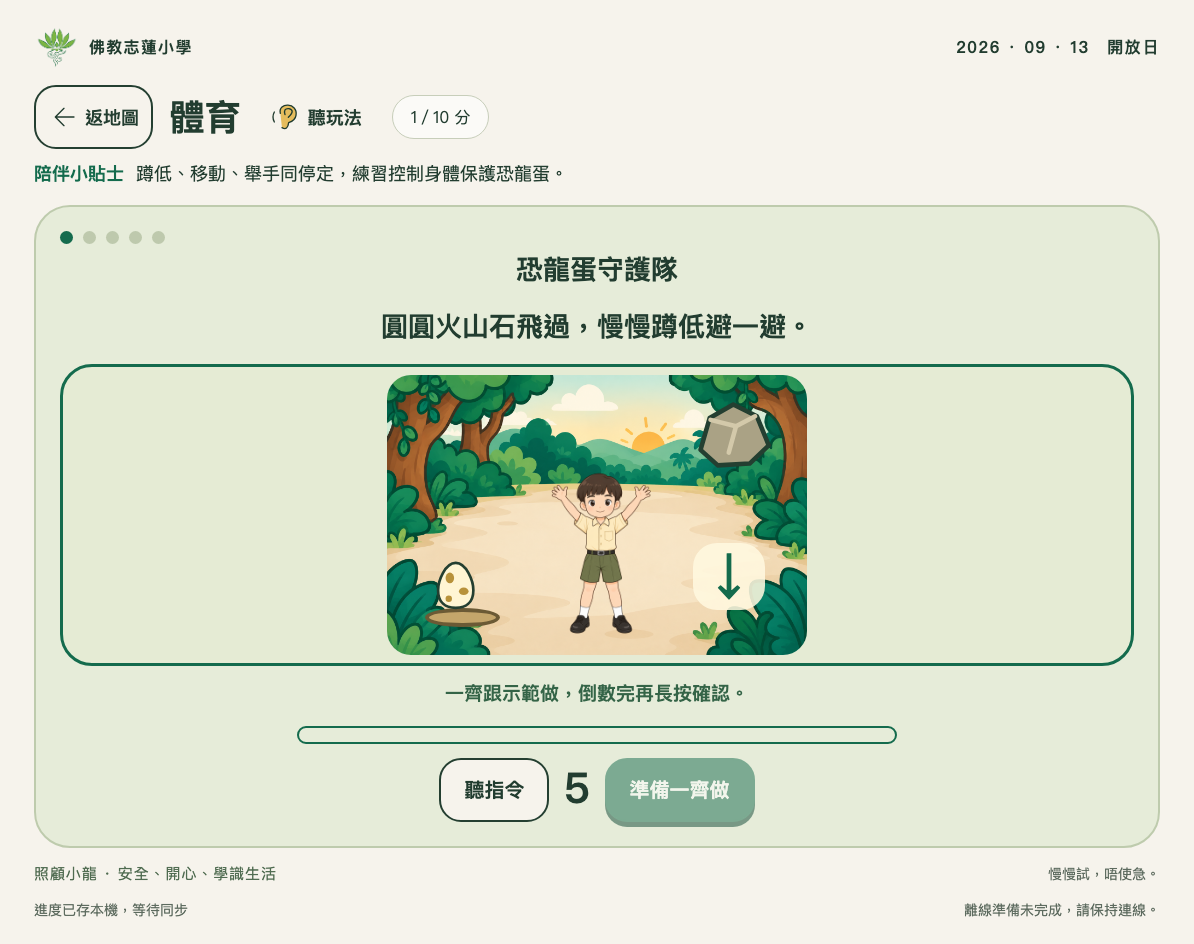
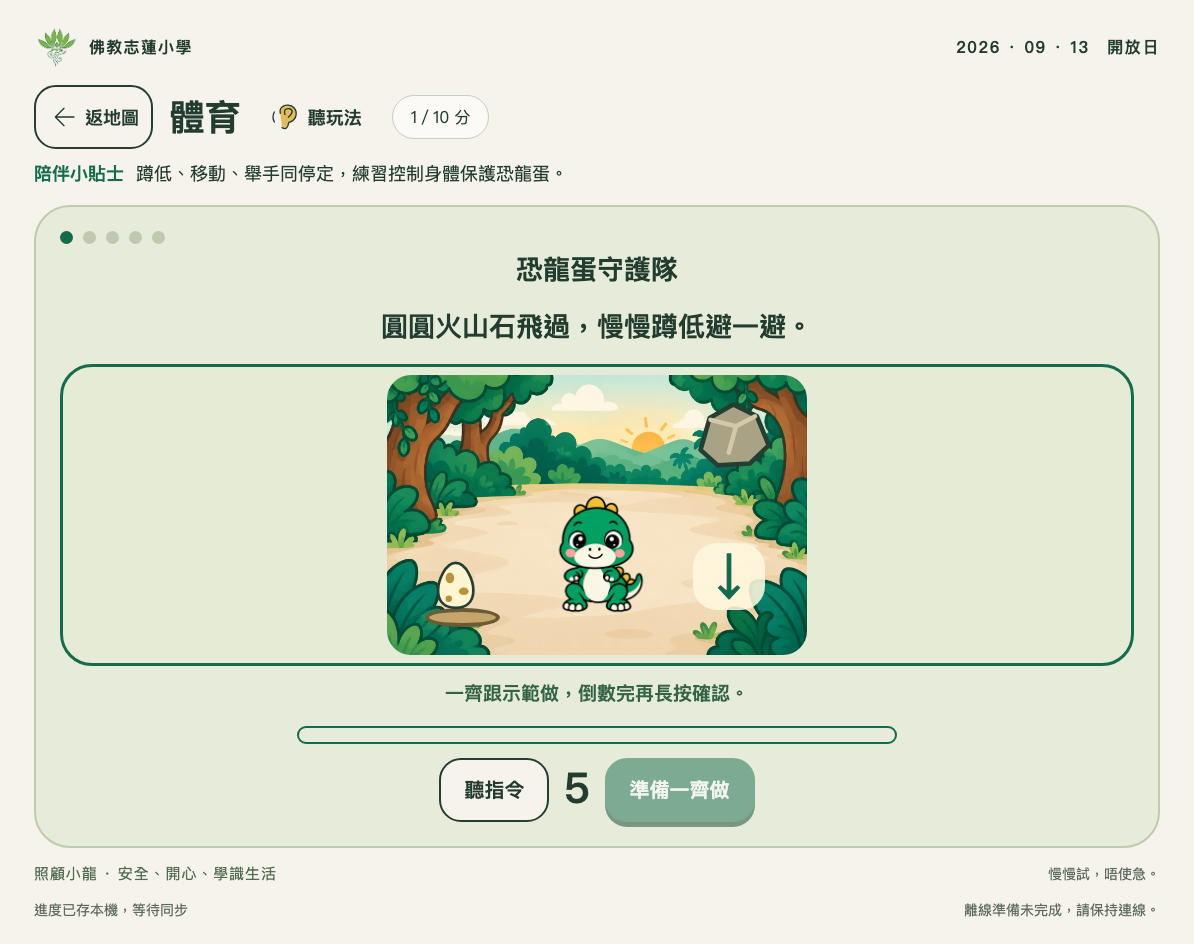
Complete hatch artwork and dinosaur-led PE demonstration scenes

Changed region(s): [[0.4648, 0.4915, 0.5578, 0.6758]]

diff --git a/sw.js b/sw.js
@@ -1,7 +1,7 @@
 // Generated precache manifest. Rebuild whenever local assets change.
-const CACHE='dino-island-1cceef660ec5';
+const CACHE='dino-island-a9feb54aa8e3';
 const BASE=new URL('./',self.location.href);
-const ASSETS=["board/board.css","board/board.js","board/img/board-skin.png","board/index.html","hub/app.js","hub/audio/en/actions/freeze.wav","hub/audio/en/actions/hands.wav","hub/audio/en/actions/jump.wav","hub/audio/en/actions/left.wav","hub/audio/en/actions/right.wav","hub/audio/en/actions/sit.wav","hub/audio/en/actions/stand.wav","hub/audio/yue/actions/freeze.wav","hub/audio/yue/actions/hands.wav","hub/audio/yue/actions/left.wav","hub/audio/yue/actions/right.wav","hub/audio/yue/actions/sit.wav","hub/audio/yue/characters/fire.wav","hub/audio/yue/characters/moon.wav","hub/audio/yue/characters/mountain.wav","hub/audio/yue/characters/sun.wav","hub/audio/yue/characters/water.wav","hub/audio/yue/characters/wood.wav","hub/audio/yue/common/complete.wav","hub/audio/yue/common/hint.wav","hub/audio/yue/common/retry.wav","hub/audio/yue/common/welcome.wav","hub/audio/yue/intro/art.wav","hub/audio/yue/intro/chinese.wav","hub/audio/yue/intro/computing.wav","hub/audio/yue/intro/english.wav","hub/audio/yue/intro/general.wav","hub/audio/yue/intro/humanities.wav","hub/audio/yue/intro/mandarin.wav","hub/audio/yue/intro/math.wav","hub/audio/yue/intro/music.wav","hub/audio/yue/intro/pe.wav","hub/audio/yue/intro/science.wav","hub/audio/zh-CN/greetings/goodbye.wav","hub/audio/zh-CN/greetings/hello.wav","hub/audio/zh-CN/greetings/morning.wav","hub/audio/zh-CN/greetings/please.wav","hub/audio/zh-CN/greetings/thanks.wav","hub/audio/zh-CN/greetings/welcome.wav","hub/certificate.js","hub/games.js","hub/img/chars/dino-baby-eat.png","hub/img/chars/dino-baby-sleep.png","hub/img/chars/dino-baby.png","hub/img/chars/landmark-hatch.png","hub/img/chars/landmark-longneck.png","hub/img/chars/landmark-triceratops.png","hub/img/chars/xiaolian-clap.png","hub/img/chars/xiaolian-color.png","hub/img/chars/xiaolian-highfive.png","hub/img/chars/xiaolian-point.png","hub/img/chars/xiaolian-welcome.png","hub/img/chars/xiaolian-write.png","hub/img/chars/xiaozhi-highfive.png","hub/img/chars/xiaozhi-jump.png","hub/img/chars/xiaozhi-run.png","hub/img/chars/xiaozhi-sit.png","hub/img/chars/xiaozhi-step.png","hub/img/chars/xiaozhi-stretch.png","hub/img/chars/xiaozhi-tablet.png","hub/img/chars/xiaozhi-welcome.png","hub/img/games/art/egg-studio.png","hub/img/games/chinese/dino-drinking.png","hub/img/games/chinese/dino-walking.png","hub/img/games/chinese/mountain.png","hub/img/games/chinese/river.png","hub/img/games/chinese/volcano.png","hub/img/games/computing/coding-garden.png","hub/img/games/computing/dino-robot.png","hub/img/games/english/dino-celebrate.png","hub/img/games/english/dino-hands-up.png","hub/img/games/english/dino-jump.png","hub/img/games/english/dino-left.png","hub/img/games/english/dino-right.png","hub/img/games/english/dino-squat.png","hub/img/games/general/bedtime.png","hub/img/games/general/daytime.png","hub/img/games/general/dino-playing.png","hub/img/games/general/dino-waking.png","hub/img/games/general/dino-washing.png","hub/img/games/general/morning.png","hub/img/games/humanities/river-centre.png","hub/img/games/humanities/safe-forest.png","hub/img/games/humanities/volcano-edge.png","hub/img/games/mandarin/dino-goodbye.png","hub/img/games/mandarin/dino-greeting.png","hub/img/games/mandarin/dino-listening.png","hub/img/games/mandarin/dino-thanks.png","hub/img/games/mandarin/village.png","hub/img/games/math/dino-hungry.png","hub/img/games/math/feeding-garden.png","hub/img/games/math/friend-longneck.png","hub/img/games/math/friend-triceratops.png","hub/img/games/music/dino-drum.png","hub/img/games/music/music-stage.png","hub/img/games/pe/forest-arena.png","hub/img/games/pe/forest-visitor.png","hub/img/games/science/excavation.png","hub/img/map/island-path.png","hub/img/ui/cert-frame.png","hub/index.html","hub/modules/art.js","hub/modules/chinese-scenes.js","hub/modules/computing.js","hub/modules/fossil-art.js","hub/modules/general.js","hub/modules/humanities.js","hub/modules/mandarin.js","hub/modules/math.js","hub/modules/motion.js","hub/modules/music.js","hub/modules/pe-scene.js","hub/modules/science.js","hub/park-guides.js","index.html","setup/index.html","shared/certificate-link.js","shared/config.js","shared/core.js","shared/game-clock-gate.js","shared/game-state.js","shared/icons.js","shared/img/school-logo.png","shared/models/pose-landmarker-lite-v1.task","shared/network.js","shared/offline.js","shared/pose-actions.js","shared/pose-camera.js","shared/qrcode.js","shared/recorder.js","shared/sequence.js","shared/storage.js","shared/style.css","shared/vendor/mediapipe/vision-bundle.js","shared/vendor/mediapipe/wasm/vision_wasm_internal.js","shared/vendor/mediapipe/wasm/vision_wasm_internal.wasm","shared/vendor/mediapipe/wasm/vision_wasm_nosimd_internal.js","shared/vendor/mediapipe/wasm/vision_wasm_nosimd_internal.wasm","shared/voice.js","hub/","board/","setup/"].map(p=>new URL(p,BASE).href);
+const ASSETS=["board/board.css","board/board.js","board/img/board-skin.png","board/index.html","hub/app.js","hub/audio/en/actions/freeze.wav","hub/audio/en/actions/hands.wav","hub/audio/en/actions/jump.wav","hub/audio/en/actions/left.wav","hub/audio/en/actions/right.wav","hub/audio/en/actions/sit.wav","hub/audio/en/actions/stand.wav","hub/audio/yue/actions/freeze.wav","hub/audio/yue/actions/hands.wav","hub/audio/yue/actions/left.wav","hub/audio/yue/actions/right.wav","hub/audio/yue/actions/sit.wav","hub/audio/yue/characters/fire.wav","hub/audio/yue/characters/moon.wav","hub/audio/yue/characters/mountain.wav","hub/audio/yue/characters/sun.wav","hub/audio/yue/characters/water.wav","hub/audio/yue/characters/wood.wav","hub/audio/yue/common/complete.wav","hub/audio/yue/common/hint.wav","hub/audio/yue/common/retry.wav","hub/audio/yue/common/welcome.wav","hub/audio/yue/intro/art.wav","hub/audio/yue/intro/chinese.wav","hub/audio/yue/intro/computing.wav","hub/audio/yue/intro/english.wav","hub/audio/yue/intro/general.wav","hub/audio/yue/intro/humanities.wav","hub/audio/yue/intro/mandarin.wav","hub/audio/yue/intro/math.wav","hub/audio/yue/intro/music.wav","hub/audio/yue/intro/pe.wav","hub/audio/yue/intro/science.wav","hub/audio/zh-CN/greetings/goodbye.wav","hub/audio/zh-CN/greetings/hello.wav","hub/audio/zh-CN/greetings/morning.wav","hub/audio/zh-CN/greetings/please.wav","hub/audio/zh-CN/greetings/thanks.wav","hub/audio/zh-CN/greetings/welcome.wav","hub/certificate.js","hub/games.js","hub/img/chars/dino-baby-eat.png","hub/img/chars/dino-baby-sleep.png","hub/img/chars/dino-baby.png","hub/img/chars/landmark-hatch.png","hub/img/chars/landmark-longneck.png","hub/img/chars/landmark-triceratops.png","hub/img/chars/xiaolian-clap.png","hub/img/chars/xiaolian-color.png","hub/img/chars/xiaolian-highfive.png","hub/img/chars/xiaolian-point.png","hub/img/chars/xiaolian-welcome.png","hub/img/chars/xiaolian-write.png","hub/img/chars/xiaozhi-highfive.png","hub/img/chars/xiaozhi-jump.png","hub/img/chars/xiaozhi-run.png","hub/img/chars/xiaozhi-sit.png","hub/img/chars/xiaozhi-step.png","hub/img/chars/xiaozhi-stretch.png","hub/img/chars/xiaozhi-tablet.png","hub/img/chars/xiaozhi-welcome.png","hub/img/games/art/dino-hatching.png","hub/img/games/art/egg-studio.png","hub/img/games/art/xiaozhi-surprised.png","hub/img/games/chinese/dino-drinking.png","hub/img/games/chinese/dino-walking.png","hub/img/games/chinese/mountain.png","hub/img/games/chinese/river.png","hub/img/games/chinese/volcano.png","hub/img/games/computing/coding-garden.png","hub/img/games/computing/dino-robot.png","hub/img/games/english/dino-celebrate.png","hub/img/games/english/dino-hands-up.png","hub/img/games/english/dino-jump.png","hub/img/games/english/dino-left.png","hub/img/games/english/dino-right.png","hub/img/games/english/dino-squat.png","hub/img/games/general/bedtime.png","hub/img/games/general/daytime.png","hub/img/games/general/dino-playing.png","hub/img/games/general/dino-waking.png","hub/img/games/general/dino-washing.png","hub/img/games/general/morning.png","hub/img/games/humanities/river-centre.png","hub/img/games/humanities/safe-forest.png","hub/img/games/humanities/volcano-edge.png","hub/img/games/mandarin/dino-goodbye.png","hub/img/games/mandarin/dino-greeting.png","hub/img/games/mandarin/dino-listening.png","hub/img/games/mandarin/dino-thanks.png","hub/img/games/mandarin/village.png","hub/img/games/math/dino-hungry.png","hub/img/games/math/feeding-garden.png","hub/img/games/math/friend-longneck.png","hub/img/games/math/friend-triceratops.png","hub/img/games/music/dino-drum.png","hub/img/games/music/music-stage.png","hub/img/games/pe/dino-coach.png","hub/img/games/pe/forest-arena.png","hub/img/games/pe/forest-visitor.png","hub/img/games/science/excavation.png","hub/img/map/island-path.png","hub/img/ui/cert-frame.png","hub/index.html","hub/modules/art.js","hub/modules/chinese-scenes.js","hub/modules/computing.js","hub/modules/fossil-art.js","hub/modules/general.js","hub/modules/humanities.js","hub/modules/mandarin.js","hub/modules/math.js","hub/modules/motion.js","hub/modules/music.js","hub/modules/pe-scene.js","hub/modules/science.js","hub/park-guides.js","index.html","setup/index.html","shared/certificate-link.js","shared/config.js","shared/core.js","shared/game-clock-gate.js","shared/game-state.js","shared/icons.js","shared/img/school-logo.png","shared/models/pose-landmarker-lite-v1.task","shared/network.js","shared/offline.js","shared/pose-actions.js","shared/pose-camera.js","shared/qrcode.js","shared/recorder.js","shared/sequence.js","shared/storage.js","shared/style.css","shared/vendor/mediapipe/vision-bundle.js","shared/vendor/mediapipe/wasm/vision_wasm_internal.js","shared/vendor/mediapipe/wasm/vision_wasm_internal.wasm","shared/vendor/mediapipe/wasm/vision_wasm_nosimd_internal.js","shared/vendor/mediapipe/wasm/vision_wasm_nosimd_internal.wasm","shared/voice.js","hub/","board/","setup/"].map(p=>new URL(p,BASE).href);
 self.addEventListener('install',e=>e.waitUntil(caches.open(CACHE).then(c=>c.addAll(ASSETS))));
 self.addEventListener('activate',e=>e.waitUntil(Promise.all([caches.keys().then(keys=>Promise.all(keys.filter(k=>k.startsWith('dino-island-')&&k!==CACHE).map(k=>caches.delete(k)))),self.clients.claim()])));
 self.addEventListener('message',e=>{if(e.data?.type!=='CHECK_OFFLINE'||!e.ports[0])return;e.waitUntil(caches.open(CACHE).then(async c=>{const present=await Promise.all(ASSETS.map(url=>c.match(url)));e.ports[0].postMessage({type:'OFFLINE_STATUS',version:CACHE,complete:present.every(Boolean),missing:present.filter(r=>!r).length,total:ASSETS.length});}).catch(()=>e.ports[0].postMessage({type:'OFFLINE_STATUS',complete:false,missing:ASSETS.length,total:ASSETS.length})));});

diff --git a/hub/modules/motion.js b/hub/modules/motion.js
@@ -4,7 +4,7 @@ import {poseCamera} from '../../shared/pose-camera.js';
 import {PoseActions} from '../../shared/pose-actions.js';
 const sequences={english:['jump','sit','stand','hands','left','right','freeze'],pe:['sit','left','right','hands','freeze']};
 const labels={jump:'輕輕跳起，再企穩',sit:'慢慢蹲低',stand:'企返直',hands:'舉高雙手',left:'向畫面左邊移一步',right:'向畫面右邊移一步',freeze:'停定定'};
-const englishSprites={jump:'dino-jump',sit:'dino-squat',hands:'dino-hands-up',left:'dino-left',right:'dino-right'};
+const actionSprites={jump:'dino-jump',sit:'dino-squat',hands:'dino-hands-up',left:'dino-left',right:'dino-right'};
 const cues={jump:'↑',sit:'↓',stand:'↑',hands:'↑ ↑',left:'←',right:'→',freeze:'●'};
 const poseMessages={'no-person':'請企喺鏡頭前，讓全身入畫。',multiple:'今次一位小朋友玩，家長可以企喺畫面外陪同。',unclear:'鏡頭未睇清楚，請露出雙手同雙腳。','stand-to-calibrate':'先企直，等小志認一認位置。',calibrating:'企定一陣，準備好就開始。'};
 export function mountMotion(root,state,save,finish,lifecycle={},subject='english'){
@@ -15,8 +15,8 @@ export function mountMotion(root,state,save,finish,lifecycle={},subject='english
  function stop(){request++;poseCamera.stop();cancelAnimationFrame(raf);raf=null;holdStart=null;holdPointer=null;last=null;stopVoice();}
  function render(){
   stopVoice();
-  const englishPose=mode==='success'?'dino-celebrate':englishSprites[command()];
-  root.innerHTML=`<div class="rounds" aria-label="第 ${state.round+1} 回合，共 ${sequence.length} 回合">${sequence.map((_,i)=>`<span class="round-dot ${i<=state.round?'done':''}"></span>`).join('')}</div><h2 class="game-instruction">${subject==='english'?'小龍講，你跟住做':'恐龍蛋守護隊'}</h2><p class="game-instruction">${subject==='pe'?(mode==='success'?peOutcomes[command()]:peSituations[command()]):labels[command()]}</p><div class="motion-stage action-${command()} ${subject==='pe'?'pe-stage':''} ${mode==='family'?'scene-running':''} ${mode==='success'?'scene-complete':''}">${subject==='pe'?'<div class="pe-scene">'+peScene(command(),mode==='success'):''}<img class="character motion-guide" src="${subject==='english'&&englishPose?`img/games/english/${englishPose}.png`:`img/chars/${subject==='english'?'dino-baby':'xiaozhi-stretch'}.png`}" alt="動作示範角色">${subject==='english'&&mode==='success'?'':`<span class="motion-cue" aria-hidden="true">${cues[command()]}</span>`}${subject==='pe'?'</div>':''}<video class="motion-camera" autoplay muted playsinline ${mode==='camera'||mode==='loading'?'':'hidden'} aria-label="本機鏡像動作畫面"></video></div><p class="feedback" role="status">${mode==='success'?(subject==='pe'?'你幫恐龍蛋安全留喺窩入面！':'你聽指令同小龍一齊郁身，小龍好開心！'):mode==='choose'?'平板放穩，家長陪住，預留郁身位置。':mode==='paused'?'鏡頭同計時已暫停，返嚟再準備。':mode==='family'?'一齊跟示範做，倒數完再長按確認。':'準備鏡頭同本機辨識，請稍等。'}</p><div class="motion-progress" role="progressbar" aria-label="動作進度" aria-valuemin="0" aria-valuemax="100" aria-valuenow="0"><span></span></div><div class="actions">${['choose','paused'].includes(mode)?'<button id="motion-camera-start" class="primary">用鏡頭一齊玩</button>':''}${mode!=='success'&&mode!=='family'?'<button id="motion-family" class="'+(state.motionAttempts>=3?'motion-help-highlight':'')+'">同家長一齊做</button>':''}${mode!=='success'?'<button id="motion-listen">聽指令</button>':''}${mode==='family'?'<span class="motion-countdown" aria-live="polite">5</span><button class="primary" id="motion-hold" disabled>準備一齊做</button>':''}${mode==='success'?`<button id="motion-next" class="primary">${state.round===sequence.length-1?'完成照顧任務':'下一個動作'}</button>`:''}</div>`;
+  const pose=mode==='success'?(subject==='english'?'games/english/dino-celebrate':'games/pe/dino-coach'):actionSprites[command()]?`games/english/${actionSprites[command()]}`:'chars/dino-baby';
+  root.innerHTML=`<div class="rounds" aria-label="第 ${state.round+1} 回合，共 ${sequence.length} 回合">${sequence.map((_,i)=>`<span class="round-dot ${i<=state.round?'done':''}"></span>`).join('')}</div><h2 class="game-instruction">${subject==='english'?'小龍講，你跟住做':'恐龍蛋守護隊'}</h2><p class="game-instruction">${subject==='pe'?(mode==='success'?peOutcomes[command()]:peSituations[command()]):labels[command()]}</p><div class="motion-stage action-${command()} ${subject==='pe'?'pe-stage':''} ${mode==='family'?'scene-running':''} ${mode==='success'?'scene-complete':''}">${subject==='pe'?'<div class="pe-scene">'+peScene(command(),mode==='success'):''}<img class="character motion-guide" src="img/${pose}.png" alt="動作示範角色">${mode==='success'?'':`<span class="motion-cue" aria-hidden="true">${cues[command()]}</span>`}${subject==='pe'&&mode==='success'?`<img class="character pe-cheer" src="img/chars/${state.round%2?'xiaozhi-highfive':'xiaolian-clap'}.png" alt="${state.round%2?'小志':'小蓮'}為你打氣">`:''}${subject==='pe'?'</div>':''}<video class="motion-camera" autoplay muted playsinline ${mode==='camera'||mode==='loading'?'':'hidden'} aria-label="本機鏡像動作畫面"></video></div><p class="feedback" role="status">${mode==='success'?(subject==='pe'?'你幫恐龍蛋安全留喺窩入面！':'你聽指令同小龍一齊郁身，小龍好開心！'):mode==='choose'?'平板放穩，家長陪住，預留郁身位置。':mode==='paused'?'鏡頭同計時已暫停，返嚟再準備。':mode==='family'?'一齊跟示範做，倒數完再長按確認。':'準備鏡頭同本機辨識，請稍等。'}</p><div class="motion-progress" role="progressbar" aria-label="動作進度" aria-valuemin="0" aria-valuemax="100" aria-valuenow="0"><span></span></div><div class="actions">${['choose','paused'].includes(mode)?'<button id="motion-camera-start" class="primary">用鏡頭一齊玩</button>':''}${mode!=='success'&&mode!=='family'?'<button id="motion-family" class="'+(state.motionAttempts>=3?'motion-help-highlight':'')+'">同家長一齊做</button>':''}${mode!=='success'?'<button id="motion-listen">聽指令</button>':''}${mode==='family'?'<span class="motion-countdown" aria-live="polite">5</span><button class="primary" id="motion-hold" disabled>準備一齊做</button>':''}${mode==='success'?`<button id="motion-next" class="primary">${state.round===sequence.length-1?'完成照顧任務':'下一個動作'}</button>`:''}</div>`;
   root.querySelector('#motion-camera-start')?.addEventListener('click',launch);
   root.querySelector('#motion-family')?.addEventListener('click',family);
   root.querySelector('#motion-listen')?.addEventListener('click',()=>{playVoice(new URL(`../audio/${subject==='english'?'en':'yue'}/actions/${command()}.wav`,import.meta.url)).then(ok=>{if(!ok)status('指令聲音未能播放，可以跟住圖示同家長一齊做。');});});

diff --git a/hub/modules/art.js b/hub/modules/art.js
@@ -17,7 +17,7 @@ export function mountArt(root,state,save,finish){
  let live=true,pointer=null,pending=null,timer=null,animating=false;
  function cancel(){pointer=null;pending=null;root.querySelector('#art-pending')?.replaceChildren();}
  function render(){
-  cancel();root.innerHTML=`<h2 class="game-instruction">彩蛋創作室</h2><p class="game-instruction">${state.hatched?'你嘅彩蛋孵出小龍啦！':'揀顏色，用手指畫一畫，再加形狀、紋樣同印章。'}</p><div class="egg-studio"><img class="character egg-guide" src="img/chars/xiaolian-color.png" alt="小蓮陪你裝飾彩蛋"><div class="egg-artwork ${state.hatched?'has-hatched':''}">${state.hatched?'<img class="character hatch-dino" src="img/chars/dino-baby.png" alt="彩蛋孵出開心小龍">':''}<svg id="egg-canvas" viewBox="0 0 300 310" role="img" aria-label="手指裝飾恐龍蛋"><defs><clipPath id="egg-clip"><path d="${eggPath}"/></clipPath></defs><path id="egg-surface" d="${eggPath}" fill="#fff8df"/><g clip-path="url(#egg-clip)"><g id="art-marks">${state.marks.map(markSVG).join('')}</g><g id="art-pending"></g></g><path d="${eggPath}" fill="none" stroke="#203b2e" stroke-width="5"/><path class="egg-crack" d="M48 153L87 174L125 149L163 177L206 148L253 169" fill="none" stroke="#203b2e" stroke-width="6"/></svg></div><img class="character egg-guide" src="img/chars/xiaozhi-highfive.png" alt="小志期待小龍出蛋"></div>${state.hatched?'<p class="feedback" role="status">你用顏色同圖案歡迎新生命，小龍開心同你打招呼！</p><div class="actions"><button class="primary" id="art-finish">完成照顧任務</button></div>':`<div class="art-colors" aria-label="六色畫具">${[2,1,3,0,4,6].map(i=>{const [color,label]=palette[i];return `<button data-art-color="${i}" aria-label="${label}" aria-pressed="${i===state.color}" style="background:${color}">${i===state.color?'✓':''}</button>`;}).join('')}</div><div class="actions art-modes">${[['brush','畫筆'],['shape','形狀'],['pattern','紋樣'],['stamp','印章']].map(([id,label])=>`<button data-art-mode="${id}" aria-pressed="${state.mode===id}">${id==='brush'?icon('paint'):preview(id,toolIds[id][0])}${label}</button>`).join('')}</div><div class="art-tools">${state.mode==='brush'?'<p>手指按住蛋殼，慢慢畫。</p>':toolIds[state.mode].map(id=>`<button data-art-item="${id}" aria-label="${labels[id]}" aria-pressed="${state.item===id}">${preview(state.mode,id)}<span>${labels[id]}</span></button>`).join('')}</div><p class="feedback" role="status">自由揀顏色，冇標準答案。至少畫一筆，再同小龍打招呼。</p><div class="actions"><button id="art-undo" ${state.marks.length?'':'disabled'}>復原一筆</button><button id="art-clear" ${state.marks.length?'':'disabled'}>清除全部</button><button class="primary" id="art-hatch" ${state.marks.length?'':'disabled'}>彩蛋孵化</button></div>`}`;
+  cancel();root.innerHTML=`<h2 class="game-instruction">彩蛋創作室</h2><p class="game-instruction">${state.hatched?'你嘅彩蛋孵出小龍啦！':'揀顏色，用手指畫一畫，再加形狀、紋樣同印章。'}</p><div class="egg-studio"><img class="character egg-guide" src="img/chars/xiaolian-color.png" alt="小蓮陪你裝飾彩蛋"><div class="egg-artwork ${state.hatched?'has-hatched':''}">${state.hatched?'<img class="character hatch-dino" src="img/games/art/dino-hatching.png" alt="彩蛋孵出開心小龍">':''}<svg id="egg-canvas" viewBox="0 0 300 310" role="img" aria-label="手指裝飾恐龍蛋"><defs><clipPath id="egg-clip"><path d="${eggPath}"/></clipPath></defs><path id="egg-surface" d="${eggPath}" fill="#fff8df"/><g clip-path="url(#egg-clip)"><g id="art-marks">${state.marks.map(markSVG).join('')}</g><g id="art-pending"></g></g><path d="${eggPath}" fill="none" stroke="#203b2e" stroke-width="5"/><path class="egg-crack" d="M48 153L87 174L125 149L163 177L206 148L253 169" fill="none" stroke="#203b2e" stroke-width="6"/></svg></div><img class="character egg-guide ${state.hatched?'is-surprised':''}" src="img/${state.hatched?'games/art/xiaozhi-surprised':'chars/xiaozhi-highfive'}.png" alt="${state.hatched?'小志驚喜迎接小龍':'小志期待小龍出蛋'}"></div>${state.hatched?'<p class="feedback" role="status">你用顏色同圖案歡迎新生命，小龍開心同你打招呼！</p><div class="actions"><button class="primary" id="art-finish">完成照顧任務</button></div>':`<div class="art-colors" aria-label="六色畫具">${[2,1,3,0,4,6].map(i=>{const [color,label]=palette[i];return `<button data-art-color="${i}" aria-label="${label}" aria-pressed="${i===state.color}" style="background:${color}">${i===state.color?'✓':''}</button>`;}).join('')}</div><div class="actions art-modes">${[['brush','畫筆'],['shape','形狀'],['pattern','紋樣'],['stamp','印章']].map(([id,label])=>`<button data-art-mode="${id}" aria-pressed="${state.mode===id}">${id==='brush'?icon('paint'):preview(id,toolIds[id][0])}${label}</button>`).join('')}</div><div class="art-tools">${state.mode==='brush'?'<p>手指按住蛋殼，慢慢畫。</p>':toolIds[state.mode].map(id=>`<button data-art-item="${id}" aria-label="${labels[id]}" aria-pressed="${state.item===id}">${preview(state.mode,id)}<span>${labels[id]}</span></button>`).join('')}</div><p class="feedback" role="status">自由揀顏色，冇標準答案。至少畫一筆，再同小龍打招呼。</p><div class="actions"><button id="art-undo" ${state.marks.length?'':'disabled'}>復原一筆</button><button id="art-clear" ${state.marks.length?'':'disabled'}>清除全部</button><button class="primary" id="art-hatch" ${state.marks.length?'':'disabled'}>彩蛋孵化</button></div>`}`;
   if(state.hatched){root.querySelector('#art-finish').onclick=()=>{if(live){live=false;finish();}};return;}
   root.querySelectorAll('[data-art-color]').forEach(b=>b.onclick=()=>{state.color=Number(b.dataset.artColor);save();render();});
   root.querySelectorAll('[data-art-mode]').forEach(b=>b.onclick=()=>{state.mode=b.dataset.artMode;state.item=state.mode==='brush'?'':toolIds[state.mode][0];save();render();});

diff --git a/shared/style.css b/shared/style.css
@@ -124,4 +124,8 @@
 .greeting-dialogue .speech-bubble{width:fit-content;padding:10px 22px;background:var(--cream);border:2px solid var(--ink);border-radius:22px;position:relative;margin-bottom:24px}
 .greeting-dialogue .speech-bubble:after{content:"";position:absolute;left:24px;bottom:-10px;width:16px;height:16px;background:var(--cream);border-right:2px solid var(--ink);border-bottom:2px solid var(--ink);transform:rotate(45deg)}
 
-.motion-stage.scene-complete:not(.pe-stage) .motion-guide{animation:none}
+.motion-stage.scene-complete .motion-guide{animation:none}
+
+.egg-guide.is-surprised{object-fit:cover}
+
+.pe-scene .pe-cheer{position:absolute;right:5%;bottom:6%;width:25%;height:60%;object-fit:contain;z-index:2}

diff --git a/docs/ASSET-REMAINING.md b/docs/ASSET-REMAINING.md
@@ -1,18 +1,15 @@
 # 尚欠遊戲素材
 
-來源：`Dino Island｜11 科恐龍遊戲 Game Module Planning.md`。已按 `game-update-v2` 的 `hub/modules/` 核對。以下 9 項檔案均不存在，manifest 仍保留未完成狀態。
+來源：`Dino Island｜11 科恐龍遊戲 Game Module Planning.md`。已按 `game-update-v2` 的 `hub/modules/` 核對。以下 6 項檔案均不存在，manifest 仍保留未完成狀態。
 
 起床小龍最初造型不一致的圖已撤下。2026-09-10 用戶批准程式去背修邊後，改用參考原定角色的新動作稿，處理成 1024×1024 真透明 PNG，已核對奶油底合成並接入常識站。此批准同樣適用後續已核對造型的角色去背；下表的「待批准」屬早期記錄，現可進行處理。
 
 | 科目 | 尚欠檔案（相對 hub/img/） | 現時暫代 | 所需動作／主體 | 下一步 |
 |---|---|---|---|---|
-| art | `games/art/dino-hatching.png` | `chars/dino-baby.png` | 小龍孵化 | 製作真透明角色圖 |
-| art | `games/art/xiaozhi-surprised.png` | `chars/xiaozhi-welcome.png` | 小志驚訝 | 製作真透明角色圖 |
 | humanities | `games/humanities/xiaolian-explorer.png` | `chars/xiaolian-point.png` | 小蓮探險引導 | 製作真透明角色圖 |
 | humanities | `games/humanities/xiaozhi-explorer.png` | `chars/xiaozhi-welcome.png` | 小志探險 | 製作真透明角色圖 |
 | music | `games/music/xiaolian-bell.png` | `chars/xiaolian-clap.png` + inline bell | 小蓮搖鈴 | 製作真透明角色圖 |
 | music | `games/music/xiaozhi-percussion.png` | `chars/xiaozhi-highfive.png` + inline clap | 小志拍手 | 製作真透明角色圖 |
-| PE | `games/pe/dino-coach.png` | `chars/xiaozhi-stretch.png` | 小龍教練 | 製作真透明角色圖 |
 | science | `games/science/xiaolian-scientist.png` | `chars/xiaolian-point.png` | 小蓮科學家 | 製作真透明角色圖 |
 | science | `games/science/xiaozhi-scientist.png` | `chars/xiaozhi-welcome.png` | 小志科學家 | 製作真透明角色圖 |
 
